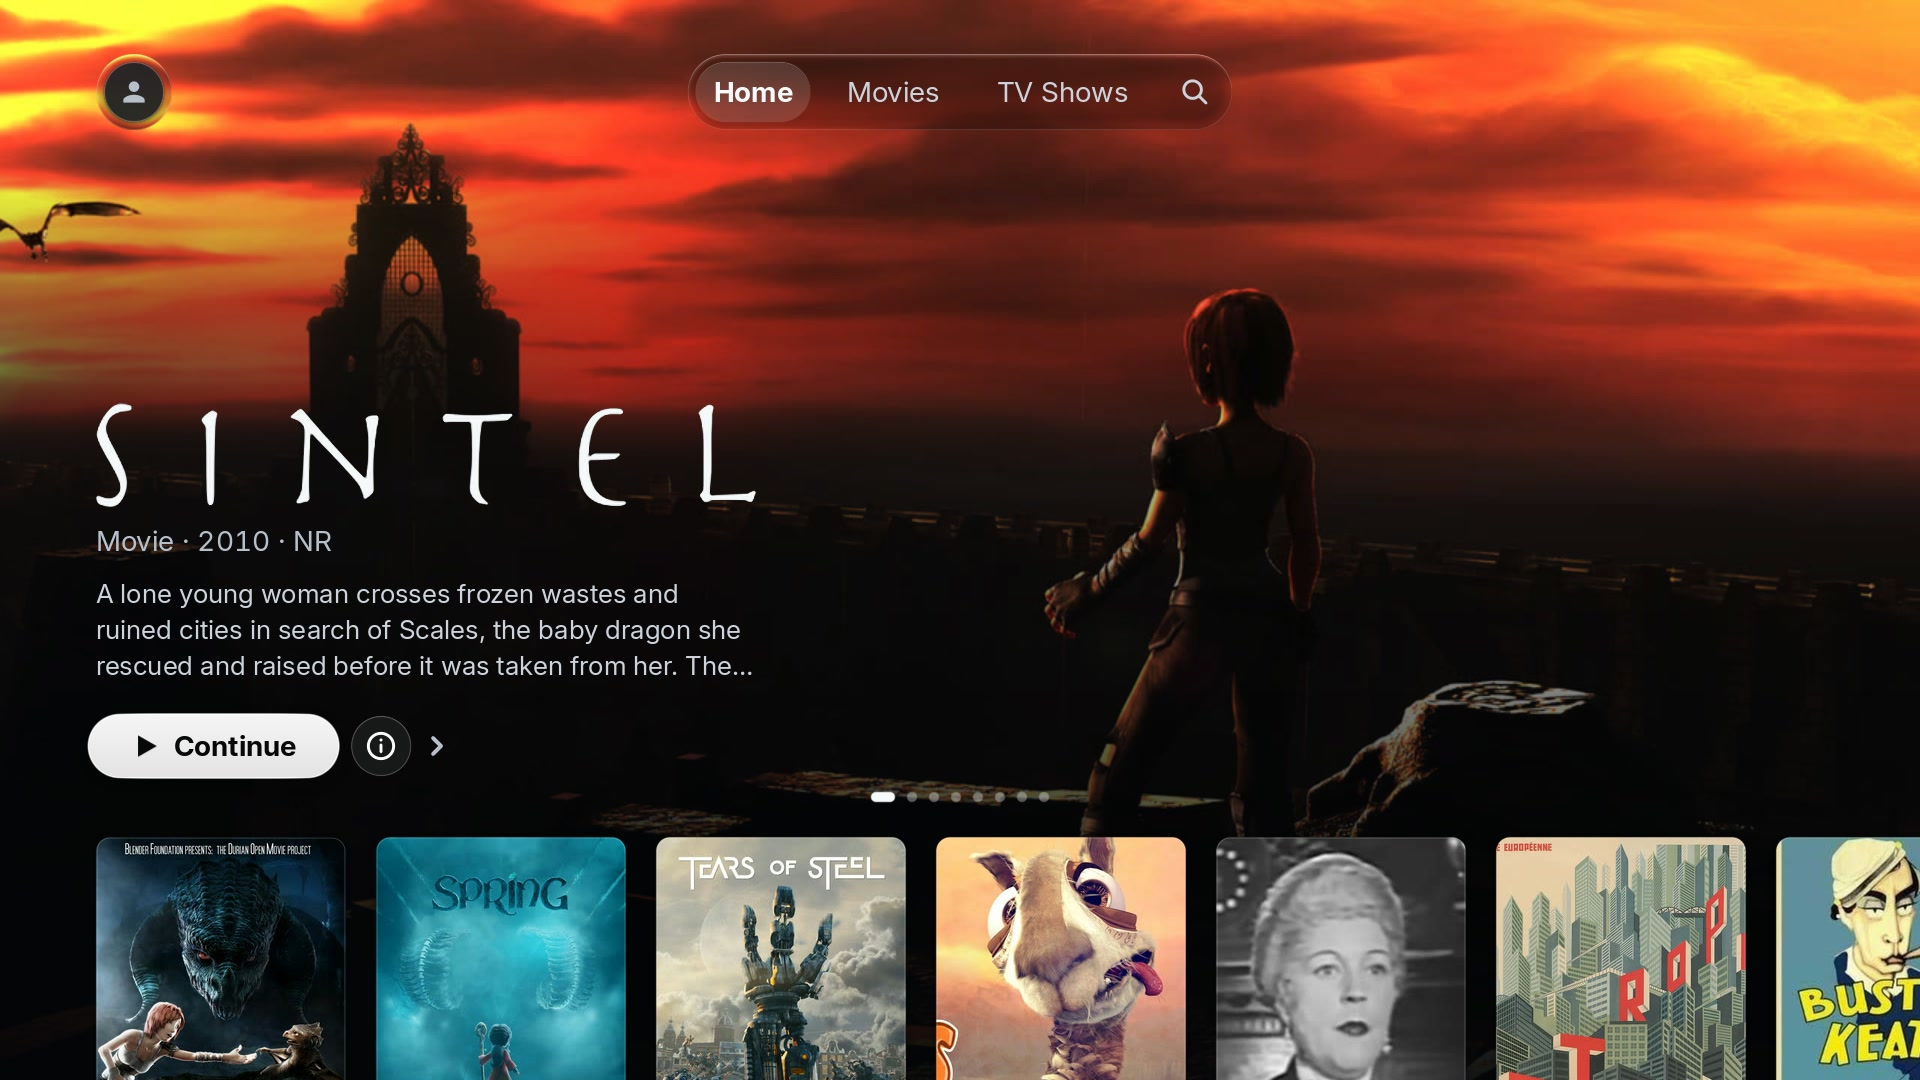
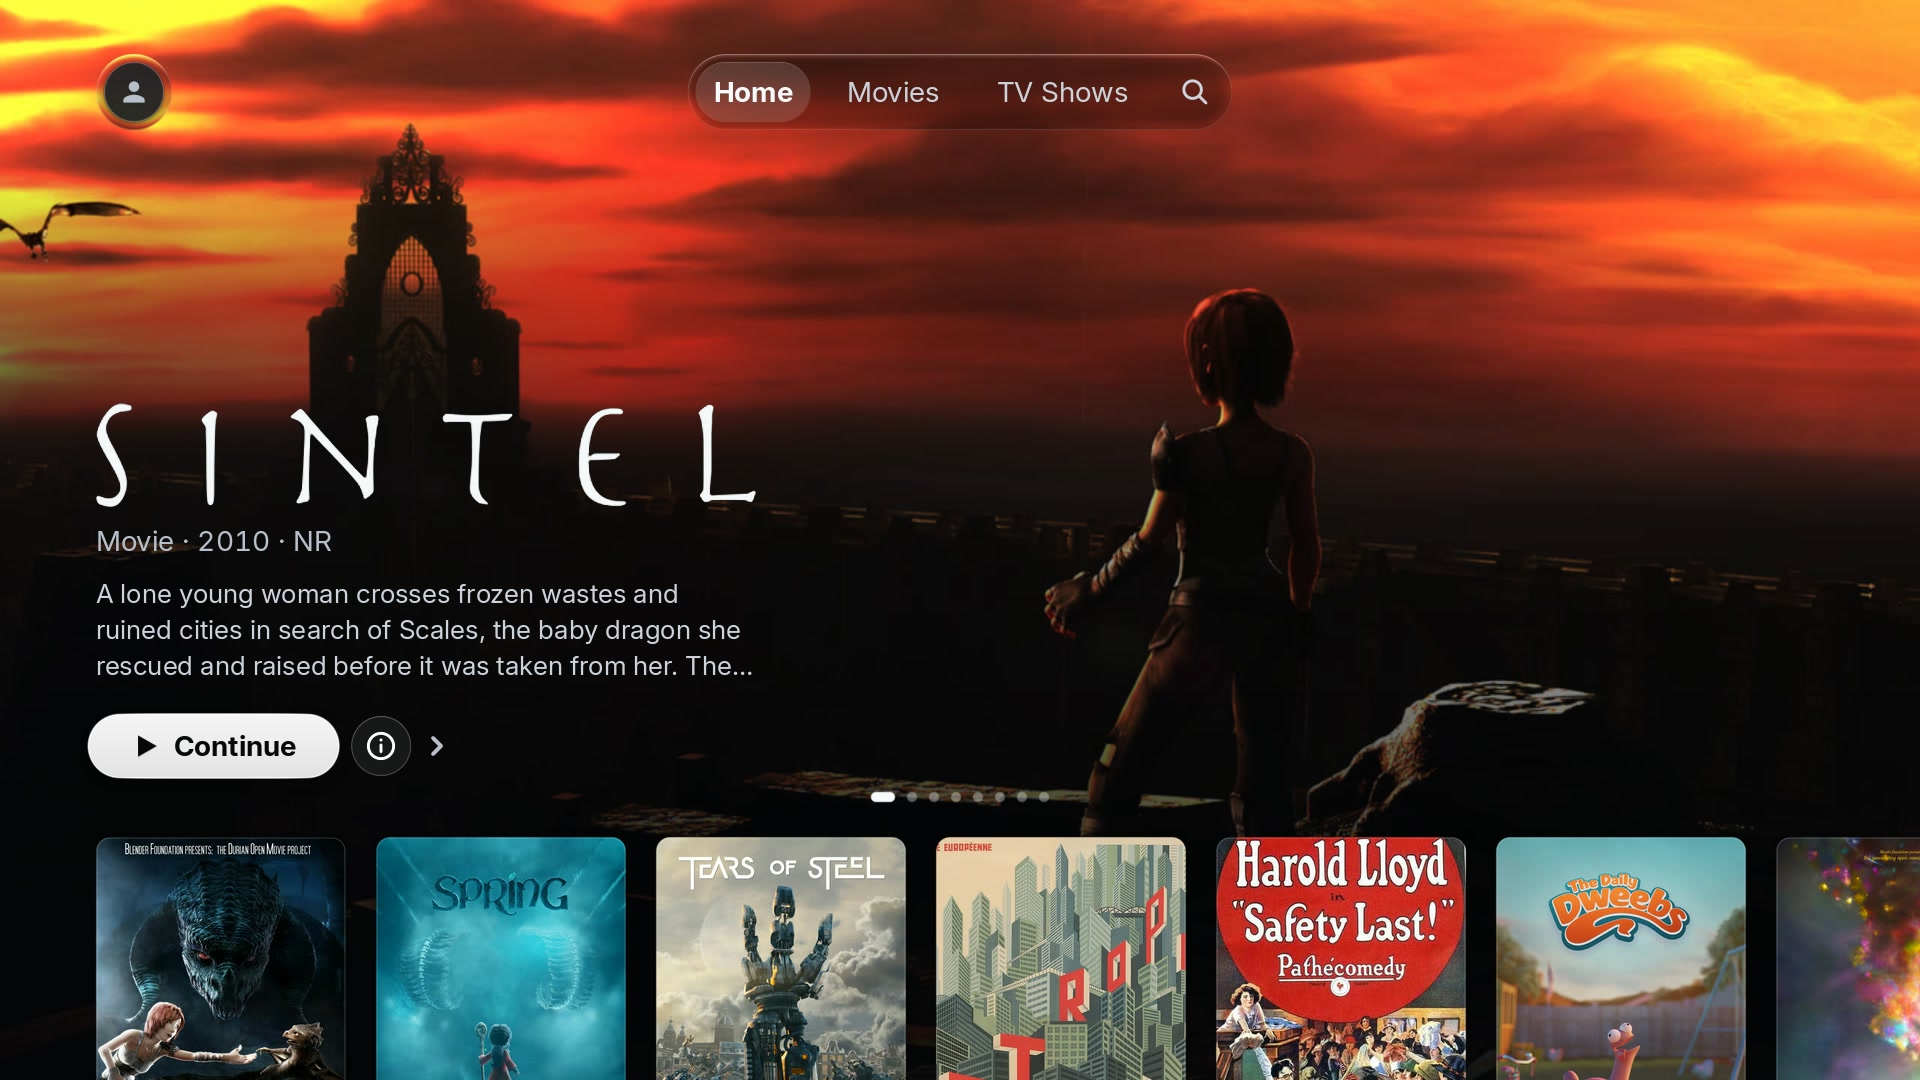
Demo library S3.4: drop Sherlock Holmes, put the catalog in its final order (#543)
Remove the Sherlock Holmes show (and its five episode assets) from the demo
catalog; Caminandes and Hubblecast remain as the shows with episodes. Sprite
Fright leaves the hero pool (not_hero). Continue Watching, Recently Added and
the pinned collection orders now put the strongest posters first and the
still-as-poster and text-title films late; the hero pool is Sintel, Spring,
Tears of Steel, Metropolis, Safety Last!, The Daily Dweebs, Cosmos Laundromat
and Charge, all passing hero-report. Hubblecast's country/creators/writers stay
pending (no cited show-level source) and PENDING_CEILING is lowered.

Regenerate the detail fixtures, credits (CREDITS.md, site/credits.html), every
stale docs/screenshots/*.jpg and the site close-ups, og-card, webp and glow
derivatives from the simulator and mock. The site feel-* video files are
untouched.

Changed region(s): [[0.4688, 0.7639, 1.0, 1.0]]

diff --git a/site/credits.html b/site/credits.html
@@ -713,25 +713,6 @@
               </dl>
             </div>
           </article>
-          <article class="credit-work" id="sherlock-holmes">
-            <h3 class="credit-title">Sherlock Holmes <span class="credit-year">1954</span></h3>
-            <div class="credit-entries">
-              <dl class="credit-entry">
-                <dt class="credit-use">Poster and episode still</dt>
-                <dd><span class="credit-label">By</span><div class="credit-value">Sheldon Reynolds Productions</div></dd>
-                <dd><span class="credit-label">Licence</span><div class="credit-value">Public domain</div></dd>
-                <dd><span class="credit-label">Source</span><div class="credit-value"><a href="https://commons.wikimedia.org/wiki/File:Meg_Lemonnier_in_Sherlock_Holmes_(The_Case_of_the_Cunningham_Heritage).jpg">Wikimedia Commons</a></div></dd>
-                <dd><span class="credit-label">Changes</span><div class="credit-value">Scaled and cropped to a 600×900 poster. Scaled and cropped to a 1280×720 episode still.</div></dd>
-              </dl>
-              <dl class="credit-entry">
-                <dt class="credit-use">Episode stills</dt>
-                <dd><span class="credit-label">By</span><div class="credit-value">Sheldon Reynolds Productions</div></dd>
-                <dd><span class="credit-label">Licence</span><div class="credit-value">Public domain</div></dd>
-                <dd><span class="credit-label">Source</span><div class="credit-value"><ul class="credit-sources"><li><a href="https://commons.wikimedia.org/wiki/File:Russell_Waters_in_Sherlock_Holmes_(The_Case_of_the_Pennsylvania_Gun).jpg">S1 E2: The Case of the Pennsylvania Gun</a></li><li><a href="https://commons.wikimedia.org/wiki/File:Peter_Copley_in_Sherlock_Holmes_(The_Case_of_Lady_Beryl).jpg">S1 E3: The Case of Lady Beryl</a></li><li><a href="https://commons.wikimedia.org/wiki/File:Gertrude_Flynn_in_Sherlock_Holmes_(The_Belligerent_Ghost).jpg">S1 E4: The Belligerent Ghost</a></li><li><a href="https://commons.wikimedia.org/wiki/File:Archie_Duncan_in_Sherlock_Holmes_(The_Case_of_the_Shy_Ballerina).jpg">S1 E5: The Case of the Shy Ballerina</a></li></ul></div></dd>
-                <dd><span class="credit-label">Changes</span><div class="credit-value">Scaled and cropped to a 1280×720 episode still.</div></dd>
-              </dl>
-            </div>
-          </article>
           <article class="credit-work" id="hubblecast">
             <h3 class="credit-title">Hubblecast <span class="credit-year">2007</span></h3>
             <div class="credit-entries">

diff --git a/tests/test_demo_library.py b/tests/test_demo_library.py
@@ -94,12 +94,14 @@ class Manifests(unittest.TestCase):
 
     def test_every_hero_candidate_has_a_logo_cut_from_its_own_poster(self):
         # The home hero draws a film's clearLogo; a candidate without one falls back to text.
-        _, catalog = tool.load()
+        assets, catalog = tool.load()
         films = {m["id"]: m for m in catalog["movies"]}
         for film in (catalog["hero"], *catalog["hero_alternatives"]):
             with self.subTest(hero=film):
                 self.assertIn("logo", films[film])
-                self.assertEqual(films[film]["logo"]["asset"], films[film]["poster"]["asset"])
+                logo = films[film]["logo"]["asset"]
+                if logo != films[film]["poster"]["asset"]:  # else the film's own official title card
+                    self.assertEqual((assets[logo]["kind"], assets[logo]["of"]), ("logo-title-card", film))
 
     def test_check_refuses_a_logo_cut_from_another_films_poster(self):
         assets, catalog = tool.load()
@@ -202,8 +204,7 @@ class Completeness(unittest.TestCase):
     # the list's own file: growing the list means editing this table, which a reviewer sees. When a
     # content PR fixes a gap it deletes the entry from `pending.json` AND lowers the number here;
     # a category that reaches zero leaves the table.
-    PENDING_CEILING = {"backdrop": 1, "country": 1, "creators": 1, "hero_art": 1,
-                       "logo": 1, "poster": 1, "writers": 1}
+    PENDING_CEILING = {"country": 1, "creators": 1, "writers": 1}
 
     CITED = {"source": "https://www.wikidata.org/wiki/Q42", "retrieved": "2026-10-07"}
 
@@ -223,11 +224,34 @@ class Completeness(unittest.TestCase):
         gaps = tool.complete_gaps(self.assets, dict(self.catalog, movies=movies)).get(key, [])
         return [g for g in gaps if g != "hero_art"]
 
-    def test_sintel_and_tears_of_steel_are_complete_and_sprite_fright_lacks_a_hero_frame(self):
+    def test_sintel_and_tears_of_steel_are_complete_and_sprite_fright_is_kept_out_of_the_hero_pool(self):
         gaps = tool.complete_gaps(self.assets, self.catalog)
         self.assertNotIn("sintel", gaps)
         self.assertNotIn("tears-of-steel", gaps)
-        self.assertEqual(gaps["sprite-fright"], ["hero_art"])
+        # Sprite Fright has no still that clears the hero zones, so it is `not_hero`, not a gap
+        sprite = next(m for m in self.catalog["movies"] if m["id"] == "sprite-fright")
+        self.assertTrue(sprite["not_hero"])
+        self.assertNotIn("sprite-fright", gaps)
+        self.assertNotIn("sprite-fright", tool.hero_pool(self.catalog))
+
+    def test_home_and_the_movies_tab_never_show_one_poster_in_both_rows_they_stack(self):
+        # Continue Watching sits directly above Recently Added on Home and on the Movies tab. Seven
+        # cards fill the row, so the first seven of each must be different films with real posters.
+        cat = self.catalog
+        movies = {m["id"]: m for m in cat["movies"]}
+        cw = [e["item"] for e in cat["continue_watching"] if e["item"] in movies]
+        ra = [i for i in cat["added_order"] if i in movies]
+        self.assertGreaterEqual(len(cw), 7, "the Movies tab's Continue Watching row must fill the width")
+        first_cw, first_ra = cw[:7], ra[:7]
+        self.assertEqual(first_cw[0], cat["hero"])
+        self.assertIn("Blender Open Movies", movies[first_cw[1]].get("collections", []))
+        self.assertEqual(set(first_cw) & set(first_ra), set())
+        for film in first_cw + first_ra:
+            with self.subTest(film=film):
+                self.assertFalse(movies[film].get("still_as_poster"), "a still is not a poster")
+        # a show's episode is in the row too, but past the seven visible cards
+        episodes = [n for n, e in enumerate(cat["continue_watching"]) if e["item"] not in movies]
+        self.assertTrue(all(n >= 7 for n in episodes))
 
     def test_each_required_field_is_a_gap_when_absent(self):
         # field removed from a complete title -> the category it is reported under
@@ -561,8 +585,11 @@ class HeroGeometry(unittest.TestCase):
         self.assertFalse(self._gap(2048, 872, None, eligible=False, anchor="right"))
 
     def test_a_title_with_no_art_is_a_backdrop_gap_not_a_hero_art_gap(self):
-        gaps = tool.complete_gaps(self.assets, self.catalog)
-        self.assertEqual(gaps["sherlock-holmes"], ["backdrop", "logo", "poster"])
+        movies = copy.deepcopy(self.catalog["movies"])
+        sintel = next(m for m in movies if m["id"] == "sintel")
+        del sintel["art"]
+        gaps = tool.complete_gaps(self.assets, dict(self.catalog, movies=movies))
+        self.assertEqual(gaps["sintel"], ["backdrop"])
 
     def test_a_title_with_art_is_a_hero_art_gap_only_while_it_is_hero_eligible_and_lacks_a_passing_subject(self):
         gaps = tool.complete_gaps(self.assets, self.catalog)
@@ -573,18 +600,20 @@ class HeroGeometry(unittest.TestCase):
             with self.subTest(title=m["id"]):
                 verdict = tool.hero_geometry(self.assets, m)["verdict"]
                 self.assertEqual("hero_art" in gaps.get(m["id"], []), m["id"] in eligible and verdict == "fail")
-        # the one Blender film still waiting for a box (it sits in the app's pool, so cannot be flagged)
-        self.assertEqual(sorted(k for k, g in gaps.items() if "hero_art" in g), ["sprite-fright"])
+        # every title the home hero can show declares a passing box, so none is a gap
+        self.assertEqual(sorted(k for k, g in gaps.items() if "hero_art" in g), [])
 
     def test_a_passing_declared_subject_clears_the_pending_entry(self):
         movies = copy.deepcopy(self.catalog["movies"])
-        sprite = next(m for m in movies if m["id"] == "sprite-fright")
-        self.assertEqual((sprite["art"]["mode"], sprite["art"]["anchor"]), ("cover", "right"))
-        sprite["art"]["subject"] = [1280, 80, 1750, 540]  # 1920x850 source -> frame [1106, 102, 1703, 686]
-        cat = dict(self.catalog, movies=movies)
-        self.assertNotIn("sprite-fright", tool.complete_gaps(self.assets, cat))
-        with self.assertRaises(AssertionError) as e:  # ...and the now-stale pending entry is refused
-            tool.check_complete(self.assets, cat)
+        charge = next(m for m in movies if m["id"] == "charge")
+        self.assertEqual((charge["art"]["mode"], charge["art"]["anchor"]), ("cover", "right"))
+        del charge["art"]["subject"]
+        undeclared = dict(self.catalog, movies=movies)
+        self.assertEqual(tool.complete_gaps(self.assets, undeclared)["charge"], ["hero_art"])
+        pending = dict(tool.load_pending(), charge=["hero_art"])
+        tool.check_complete(self.assets, undeclared, pending=pending)  # listed, so the gate holds
+        with self.assertRaises(AssertionError) as e:  # declared and passing, the entry is stale: refused
+            tool.check_complete(self.assets, self.catalog, pending=pending)
         self.assertIn("hero_art", str(e.exception))
 
     def test_the_subject_does_not_change_the_derive_stamp(self):
@@ -704,12 +733,12 @@ class HeroGeometry(unittest.TestCase):
     def test_hero_report_prints_each_eligible_title_offline(self):
         r = self._run("hero-report")
         self.assertEqual(r.returncode, 0, r.stderr)
-        self.assertRegex(r.stdout, r"(?m)^sprite-fright .*\bfail no-subject\b")
-        for key in ("sintel", "tears-of-steel", "spring", "charge", "cosmos-laundromat", "hero", "singularity", "metropolis", "the-general",
-                    "safety-last", "the-daily-dweebs"):
+        for key in ("sintel", "tears-of-steel", "spring", "charge", "cosmos-laundromat", "hero", "metropolis",
+                    "safety-last", "the-daily-dweebs", "the-general", "singularity"):
             self.assertRegex(r.stdout, rf"(?m)^{key} .*\bpass\b")
-        self.assertRegex(r.stdout, r"(?m)^sherlock-holmes .*\bskip\b")
-        self.assertNotRegex(r.stdout, r"(?m)^wing-it ")  # `not_hero` titles are not in the report
+        for key in ("wing-it", "sprite-fright"):  # `not_hero` titles are not in the report
+            self.assertNotRegex(r.stdout, rf"(?m)^{key} ")
+        self.assertIn("hero art: 11 pass, 0 fail, 0 skip", r.stdout)
         self.assertIn("home text column", r.stdout)  # the zone table, with its pins
         self.assertIn("rust-modules/ui/src/landing_hero.rs", r.stdout)
 
@@ -1640,7 +1669,7 @@ class Catalog(unittest.TestCase):
         self.assertEqual(self.search("in")["movie"], [])
         # Every word of the query must begin a word of the name, in any order.
         self.assertEqual(self.search("st te")["movie"], ["Tears of Steel"])
-        self.assertEqual(self.search("sherlock holmes")["show"], ["Sherlock Holmes"])
+        self.assertEqual(self.search("hubble")["show"], ["Hubblecast"])
         # People and collections match by the same rule.
         self.assertIn("Fritz Lang", self.search("fr")["actor"])
         self.assertEqual(self.search("si")["collection"], ["Silent Classics"])

diff --git a/docs/screenshots/CREDITS.md b/docs/screenshots/CREDITS.md
@@ -99,11 +99,6 @@ Written by `make screenshots` with the images; do not edit by hand.
 | Safety Last! (backdrop) | [Safety_Last_%281923%29_sceenshot.jpg](https://commons.wikimedia.org/wiki/File:Safety_Last_(1923)_sceenshot.jpg) | Public domain | Hal Roach Studios |
 | Seder-Masochism (poster), Seder-Masochism (clear logo, derived from this poster) | [SederMasochismPoster.jpg](https://commons.wikimedia.org/wiki/File:SederMasochismPoster.jpg) | CC0 1.0 | Nina Paley |
 | Seder-Masochism (backdrop) | [Moses-Splits-Sea_by_Nina_Paley.jpg](https://commons.wikimedia.org/wiki/File:Moses-Splits-Sea_by_Nina_Paley.jpg) | CC0 1.0 | Nina Paley |
-| Sherlock Holmes (poster), Sherlock Holmes: The Case of the Cunningham Heritage (episode still) | [Meg_Lemonnier_in_Sherlock_Holmes_%28The_Case_of_the_Cunningham_Heritage%29.jpg](https://commons.wikimedia.org/wiki/File:Meg_Lemonnier_in_Sherlock_Holmes_(The_Case_of_the_Cunningham_Heritage).jpg) | Public domain | Sheldon Reynolds Productions |
-| Sherlock Holmes: The Case of the Pennsylvania Gun (episode still) | [Russell_Waters_in_Sherlock_Holmes_%28The_Case_of_the_Pennsylvania_Gun%29.jpg](https://commons.wikimedia.org/wiki/File:Russell_Waters_in_Sherlock_Holmes_(The_Case_of_the_Pennsylvania_Gun).jpg) | Public domain | Sheldon Reynolds Productions |
-| Sherlock Holmes: The Case of Lady Beryl (episode still) | [Peter_Copley_in_Sherlock_Holmes_%28The_Case_of_Lady_Beryl%29.jpg](https://commons.wikimedia.org/wiki/File:Peter_Copley_in_Sherlock_Holmes_(The_Case_of_Lady_Beryl).jpg) | Public domain | Sheldon Reynolds Productions |
-| Sherlock Holmes: The Belligerent Ghost (episode still) | [Gertrude_Flynn_in_Sherlock_Holmes_%28The_Belligerent_Ghost%29.jpg](https://commons.wikimedia.org/wiki/File:Gertrude_Flynn_in_Sherlock_Holmes_(The_Belligerent_Ghost).jpg) | Public domain | Sheldon Reynolds Productions |
-| Sherlock Holmes: The Case of the Shy Ballerina (episode still) | [Archie_Duncan_in_Sherlock_Holmes_%28The_Case_of_the_Shy_Ballerina%29.jpg](https://commons.wikimedia.org/wiki/File:Archie_Duncan_in_Sherlock_Holmes_(The_Case_of_the_Shy_Ballerina).jpg) | Public domain | Sheldon Reynolds Productions |
 | Sherlock Jr. (backdrop) | [1280px-seek%3D1984-Sherlock_Jr._%281924%29.webm.jpg](https://commons.wikimedia.org/wiki/File:Sherlock_Jr._(1924).webm) | Public domain | Buster Keaton |
 | Sherlock Jr. (poster), Sherlock Jr. (clear logo, derived from this poster, lettering recoloured) | [Sherlock_jr_poster.jpg](https://commons.wikimedia.org/wiki/File:Sherlock_jr_poster.jpg) | Public domain | Unknown |
 | Singularity (clear logo, the film's own title card) | [8577466d4b7170f4cfe1a9933373e84c.webp](https://studio.blender.org/projects/singularity/) | CC BY 4.0 | Blender Studio; © Blender Foundation / studio.blender.org |
